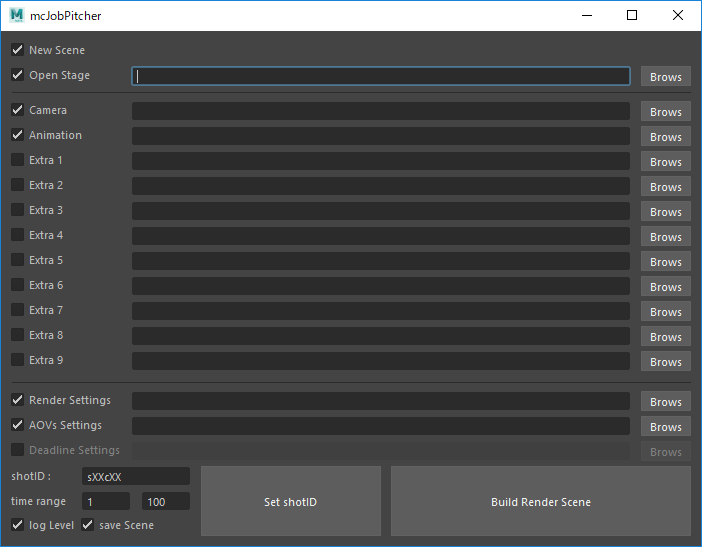
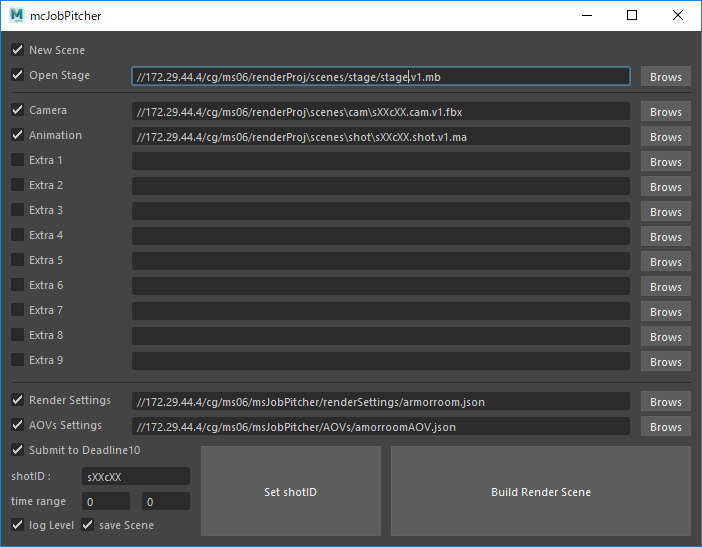
readme追記

diff --git a/README.md b/README.md
@@ -38,15 +38,28 @@ sys.path.append( 'filePath\msJobPitcher' )
 ### Render Settings & AOVsSetting
 `config.json` で指定したデフォルトの設定ファイルをインポートします。
 
-### Deadline Setting(開発中)
-`config.json` で指定したデフォルトの設定ファイルをインポートし、レンダージョブをDeadline10に送信します。
+### Submit to Deadline10
+レンダージョブをDeadline10に送信します。レンダリングカメラはshotIDのカメラのみがrenderbleに設定されます。
 
 この機能を利用するには事前にDeadline10のセットアップを済ませる必要があります。
 
 また、プロジェクトパスをDeadline10が読み書き可能なネットワークドライブにする必要があります。
 
-### time renge(開発中)
+現在は下記項目を設定します。
+- Department --> ms06
+- Group --> normal_node
+- Priority --> 50
+
+また下記項目はレンダー設定を引き継ぎます。
+- Job Name
+- Frame List
+- Project Path
+- Output Path
+
+### time renge
 カットのタイムレンジを指定します。ここで設定したレンジがレンダージョブに設定されます。
+
+timecode.csvにshotIDごとのタイムレンジが存在する場合はそちらをset shotID時に代入します。
 
 ### shotID
 カット事の固有IDを設定します。プロジェクトの命名規則に従ってください。
